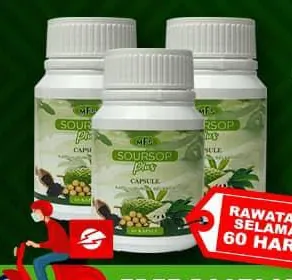
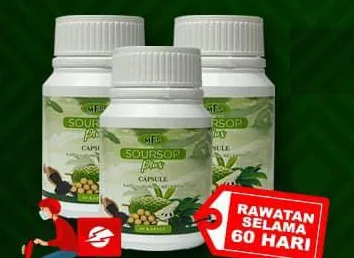
Betulkan gambar set & KKM yang terpotong, dan teks tenggelam atas latar terang
- Gambar set 1/2/3 botol dipotong semula (tag 'Rawatan selama' & penutup botol penuh,
  tajuk poster dipadam), dipapar dengan object-fit: contain
- Gambar KKM dipotong tanpa sisa paparan QUEST3+, latar putih + kapsyen gelap
- Lapisan gelap hero & kad ramuan lebih pekat, bayang pada tajuk emas

Claude-Session: https://claude.ai/code/session_01BAK4LqBJxmuU9MM4u3bUDB

diff --git a/index.html b/index.html
@@ -34,7 +34,7 @@
 <link rel="preload" as="style" href="https://fonts.googleapis.com/css2?family=Cinzel:wght@500;600;700&family=Cormorant+Garamond:ital,wght@0,500;0,600;0,700;1,500&family=Manrope:wght@400;500;600;700;800&display=swap" onload="this.onload=null;this.rel='stylesheet'">
 <noscript><link rel="stylesheet" href="https://fonts.googleapis.com/css2?family=Cinzel:wght@500;600;700&family=Cormorant+Garamond:ital,wght@0,500;0,600;0,700;1,500&family=Manrope:wght@400;500;600;700;800&display=swap"></noscript>
 <link rel="preload" as="image" href="assets/img/hero-960.webp" imagesrcset="assets/img/hero-480.webp 480w, assets/img/hero-960.webp 768w" imagesizes="(min-width: 1024px) 60vw, 100vw">
-<link rel="stylesheet" href="css/style.css?v=20261115-3">
+<link rel="stylesheet" href="css/style.css?v=20261115-5">
 
 <script type="application/ld+json">
 {
@@ -471,7 +471,7 @@
   <div class="pkgs" id="pkgs">
     <article class="pkg pkg--feature reveal" data-type="set" data-id="set-3" data-gallery="set-3botol,produk-meja,produk-kkm" data-poster="poster-harga">
       <div class="pkg__media">
-        <img src="assets/img/set-3botol-400.webp" width="292" height="280" alt="Set 3 botol MFS Soursop Plus, 180 kapsul" loading="lazy">
+        <img src="assets/img/set-3botol-400.webp" width="354" height="258" alt="Set 3 botol MFS Soursop Plus, 180 kapsul" loading="lazy">
         <span class="badge badge--gold">Paling Jimat</span>
       </div>
       <div class="pkg__body">
@@ -497,7 +497,7 @@
 
     <article class="pkg pkg--tall reveal" style="--d:.08s" data-type="set" data-id="set-2" data-gallery="set-2botol,produk-meja,produk-kkm" data-poster="poster-harga">
       <div class="pkg__media">
-        <img src="assets/img/set-2botol-400.webp" width="292" height="290" alt="Set 2 botol MFS Soursop Plus, 120 kapsul" loading="lazy">
+        <img src="assets/img/set-2botol-400.webp" width="367" height="275" alt="Set 2 botol MFS Soursop Plus, 120 kapsul" loading="lazy">
         <span class="badge">Pilihan Popular</span>
       </div>
       <div class="pkg__body">
@@ -522,7 +522,7 @@
 
     <article class="pkg pkg--camp reveal" style="--d:.12s" data-type="set" data-id="set-1" data-gallery="set-1botol,produk-meja,produk-kkm" data-poster="poster-harga">
       <div class="pkg__media">
-        <img src="assets/img/set-1botol-400.webp" width="292" height="270" alt="1 botol MFS Soursop Plus, 60 kapsul" loading="lazy">
+        <img src="assets/img/set-1botol-400.webp" width="374" height="280" alt="1 botol MFS Soursop Plus, 60 kapsul" loading="lazy">
         <span class="badge">Mula Mencuba</span>
       </div>
       <div class="pkg__body">
@@ -648,7 +648,7 @@
       <span>Penghantaran ke seluruh Malaysia tanpa caj pos untuk semua set promosi.</span>
     </article>
     <figure class="facc facc--img reveal" style="--d:.2s">
-      <img src="assets/img/produk-kkm-800.webp" width="387" height="540" alt="Botol dan kotak Soursop Plus Capsule dengan nombor pendaftaran KKM" loading="lazy">
+      <img src="assets/img/produk-kkm-800.webp" width="372" height="390" alt="Botol dan kotak Soursop Plus Capsule dengan nombor pendaftaran KKM" loading="lazy">
       <figcaption><span class="eyebrow">MAL23076122TC</span><strong>MFS Soursop Plus Capsule</strong></figcaption>
     </figure>
   </div>
@@ -664,7 +664,7 @@
     <button type="button" data-full="assets/img/poster-harga-1200.webp" data-cap="Poster harga promosi Soursop Plus"><img src="assets/img/poster-harga-1200.webp" width="800" height="1080" alt="Poster harga promosi: 1 botol RM220, 2 botol RM400, 3 botol RM500" loading="lazy"></button>
     <button type="button" data-full="assets/img/pelanggan-liza-800.webp" data-cap="Kak Liza bersama 3 kotak Soursop Plus"><img src="assets/img/pelanggan-liza-400.webp" width="400" height="440" alt="Kak Liza memegang tiga kotak Soursop Plus" loading="lazy"></button>
     <button type="button" data-full="assets/img/poster-kkm-1200.webp" data-cap="Carian QUEST3+: MAL23076122TC — MFS Soursop Plus Capsule"><img src="assets/img/poster-kkm-1200.webp" width="800" height="800" alt="Paparan carian QUEST3+ untuk MAL23076122TC, MFS Soursop Plus Capsule, pemegang Ace Soar High Enterprise" loading="lazy"></button>
-    <button type="button" data-full="assets/img/produk-kkm-800.webp" data-cap="MFS Soursop Plus Capsule — 60 kapsul"><img src="assets/img/produk-kkm-400.webp" width="387" height="540" alt="Botol dan kotak MFS Soursop Plus Capsule, 60 kapsul" loading="lazy"></button>
+    <button type="button" data-full="assets/img/produk-kkm-800.webp" data-cap="MFS Soursop Plus Capsule — 60 kapsul"><img src="assets/img/produk-kkm-400.webp" width="372" height="390" alt="Botol dan kotak MFS Soursop Plus Capsule, 60 kapsul" loading="lazy"></button>
     <button type="button" data-full="assets/img/pelanggan-siti-800.webp" data-cap="Kak Siti, pengguna Soursop Plus"><img src="assets/img/pelanggan-siti-400.webp" width="400" height="595" alt="Kak Siti, pengguna Soursop Plus, memegang kotak produk" loading="lazy"></button>
     <button type="button" data-full="assets/img/pelanggan-konsultasi-800.webp" data-cap="Terima kasih menjadi sebahagian pengguna"><img src="assets/img/pelanggan-konsultasi-400.webp" width="400" height="400" alt="Sesi bersama pengguna Soursop Plus dengan produk di atas meja" loading="lazy"></button>
     <button type="button" data-full="assets/img/pelanggan-beg-800.webp" data-cap="Terima kasih kerana percayakan Soursop Plus"><img src="assets/img/pelanggan-beg-400.webp" width="400" height="400" alt="Pengguna memegang kotak Soursop Plus" loading="lazy"></button>
@@ -800,6 +800,6 @@
   <symbol id="i-tg" viewBox="0 0 24 24"><path fill="currentColor" d="M21.4 3.6 2.9 10.8c-1.3.5-1.2 1.2-.2 1.5l4.7 1.5 1.8 5.6c.2.6.4.8.9.8.4 0 .6-.2.9-.5l2.3-2.2 4.8 3.5c.9.5 1.5.2 1.7-.8l3.1-14.7c.3-1.3-.5-1.9-1.5-1.4ZM9.3 13.4l8.6-5.4c.4-.3.8-.1.5.2l-7.1 6.4-.3 3.3-1.7-4.5Z"/></symbol>
 </svg>
 
-<script src="js/main.js?v=20261115-3" defer></script>
+<script src="js/main.js?v=20261115-5" defer></script>
 </body>
 </html>

diff --git a/css/style.css b/css/style.css
@@ -621,3 +621,19 @@ body.lock{overflow:hidden}
 .pay-note{display:flex;gap:8px;align-items:flex-start;color:var(--silver)}
 .pay-note .ico{width:15px;height:15px;color:var(--gold);margin-top:2px}
 .pay-note strong{color:var(--gold-hi)}
+
+/* Pembetulan: gambar tidak terpotong & teks jelas di atas latar terang */
+.pkg__media{background:#042602}
+.pkg__media img{object-fit:contain}
+.tile__shade{background:linear-gradient(0deg,rgba(3,20,10,.97) 0%,rgba(3,20,10,.88) 40%,rgba(3,20,10,.66) 70%,rgba(3,20,10,.6) 100%)}
+.hero h1,.herb-hero h3,.act--hero h3{text-shadow:0 2px 18px rgba(0,0,0,.7)}
+.hero h1 em,.herb-hero em{filter:drop-shadow(0 2px 10px rgba(0,0,0,.85))}
+.hero .eyebrow,.herb-hero .eyebrow,.tile__cap .eyebrow{text-shadow:0 1px 8px rgba(0,0,0,.9)}
+.h1-kicker{color:#e3ece4}
+.herb-hero::after{background:linear-gradient(0deg,rgba(3,20,10,.97) 12%,rgba(3,20,10,.78) 50%,rgba(3,20,10,.45))}
+.tile__cap{background:linear-gradient(0deg,rgba(3,20,10,.95) 30%,rgba(3,20,10,.55) 70%,transparent)}
+.facc--img{background:#fff}
+.facc--img img{object-fit:contain;object-position:center;padding:10px 10px 74px}
+.facc--img figcaption{background:linear-gradient(0deg,rgba(3,20,10,.98) 55%,rgba(3,20,10,.85) 80%,rgba(3,20,10,0));padding-top:34px}
+.facc--img figcaption .eyebrow{color:var(--gold-hi)}
+.gallery button::after{background:linear-gradient(0deg,rgba(3,20,10,.95),transparent)}
